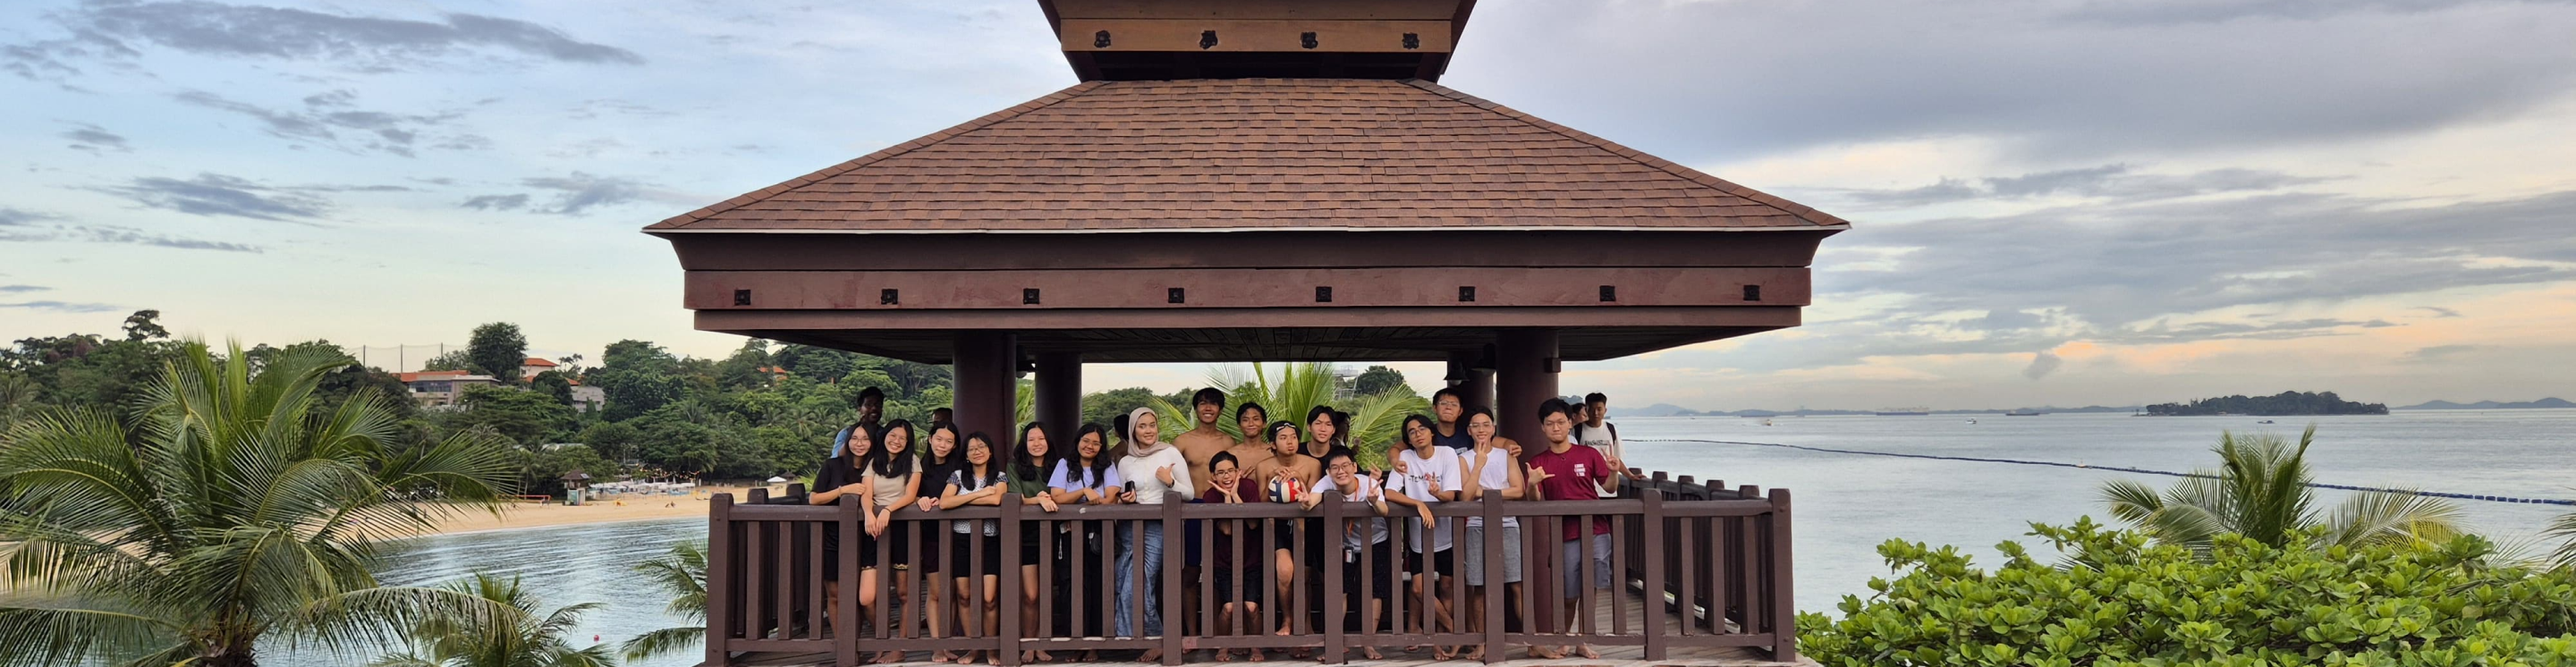
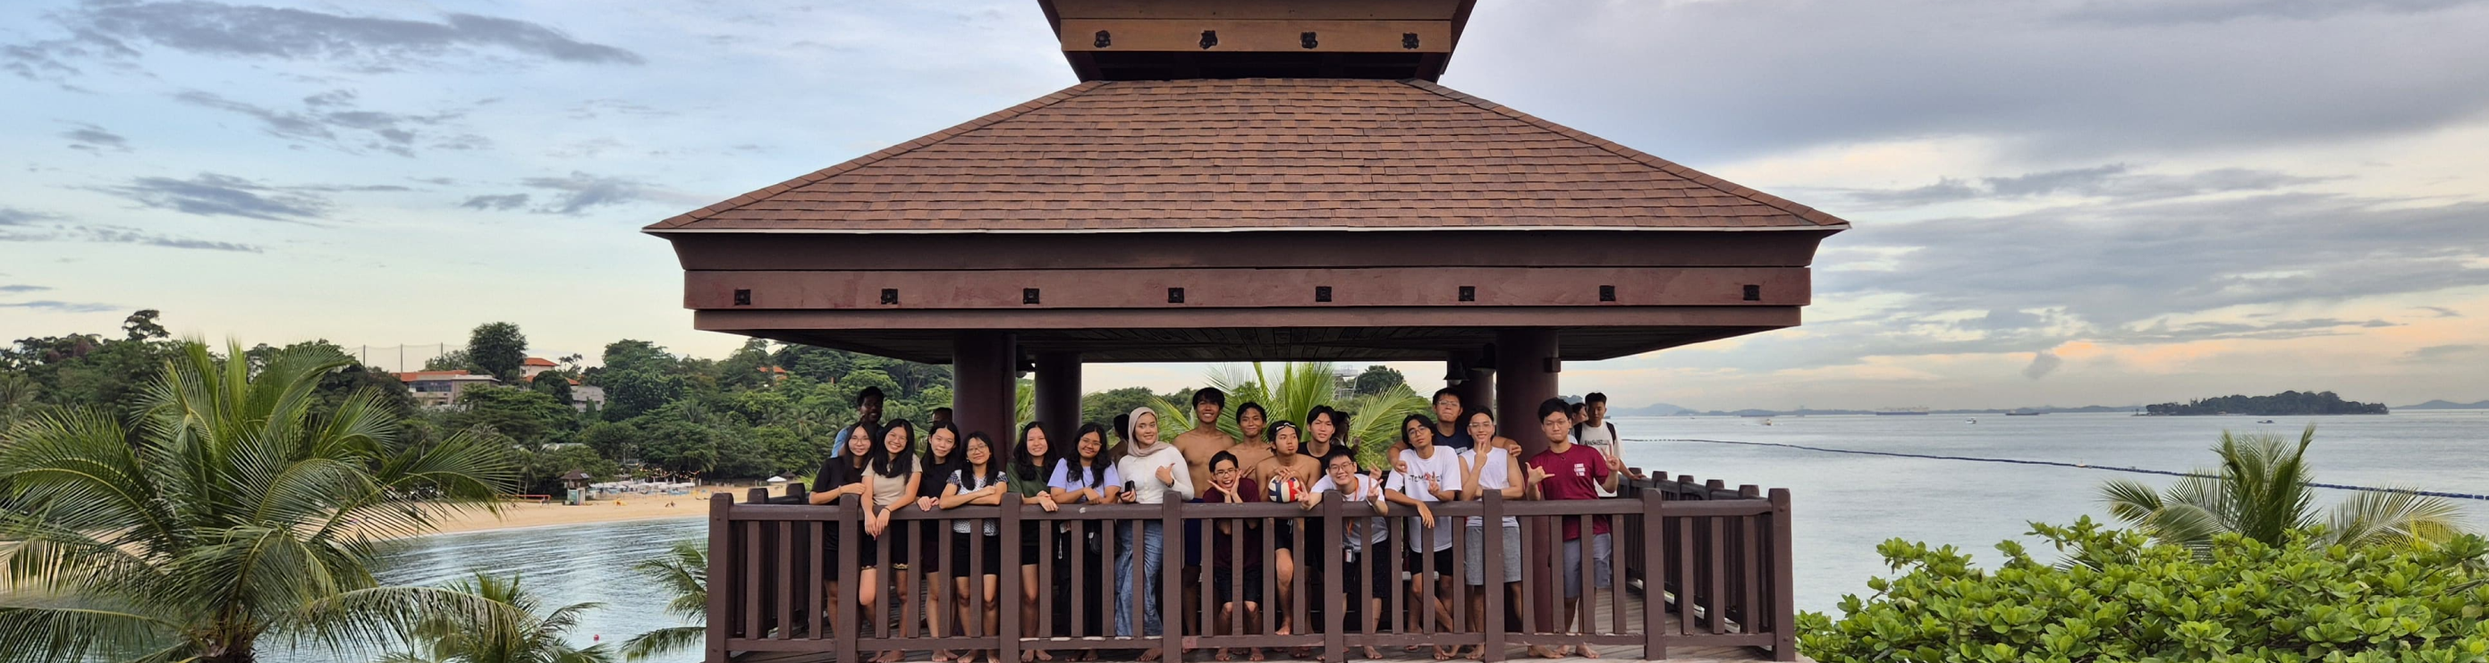
changed mobile hero style

diff --git a/app/page.tsx b/app/page.tsx
@@ -1,10 +1,14 @@
 // This is the home page and should be done by Team Rafa
 // Todo: Mostly this page is static can just follow the design from the figma
 
+'use client';
+
+import { useMediaQuery } from "@react-hook/media-query";
 import Image from "next/image";
+import { BlurFade } from "./components/ui/blur-fade";
 
 const aboutUsText =
-  "Perhimpunan Indonesia at NUS (PINUS) is a student organization dedicated to fostering a strong sense of community among Indonesian students at the National University of Singapore (NUS). Through a variety of social, cultural, and educational events, we aim to preserve and promote Indonesian culture, while also helping members adapt to life in Singapore. PINUS serves as a platform for students to develop their talents, strengthen leadership skills, and build lifelong friendships with fellow Indonesians and the wider NUS community";
+  "Perhimpunan Indonesia at NUS (PINUS) is a student organization dedicated to fostering a strong sense of community among Indonesian students at the National University of Singapore (NUS). Through a variety of social, cultural, and educational events, we aim to preserve and promote Indonesian culture, while also helping members adapt to life in Singapore. PINUS serves as a platform for students to develop their talents, strengthen leadership skills, and build lifelong friendships with fellow Indonesians and the wider NUS community.";
 const visionText =
   "To become an organization that aims to foster a sense of family and the spirit of mutual cooperation, as well as to provide a platform for Indonesian students at NUS to develop their potential, so they can contribute to both Indonesia and Singapore.";
 const missionsPoints = [
@@ -17,149 +21,179 @@ const missionsPoints = [
 ];
 
 export default function Home() {
+  const  match = useMediaQuery('only screen and (max-width: 600px)');
+  
   return (
-    <div
-      style={{
-        backgroundImage:
-          "linear-gradient(to bottom right, #fe5957 10%, rgba(255, 255, 255, 0) 40%)",
-        backgroundSize: "cover",
-      }}
-    >
+    <BlurFade delay={0.04 * 1.5} inView>
       <div
         style={{
           backgroundImage:
-            "linear-gradient(-100deg, #f7dc81 10%, rgba(255, 255, 255, 0) 40%)",
+            "linear-gradient(to bottom right, #fe5957 10%, rgba(255, 255, 255, 0) 40%)",
           backgroundSize: "cover",
         }}
       >
         <div
           style={{
             backgroundImage:
-              "linear-gradient(45deg, #a3a6c5 10%, rgba(255, 255, 255, 0) 40%)",
+              "linear-gradient(-100deg, #f7dc81 10%, rgba(255, 255, 255, 0) 40%)",
             backgroundSize: "cover",
           }}
         >
-          <div>
-            <div
-              style={{
-                position: "relative", // Position parent div relative for absolute positioning of gradient
-                width: "100%",
-                height: "auto",
-              }}
-            >
-              {/* Gradient overlay div */}
+          <div
+            style={{
+              backgroundImage:
+                "linear-gradient(45deg, #a3a6c5 10%, rgba(255, 255, 255, 0) 40%)",
+              backgroundSize: "cover",
+            }}
+          >
+            <div>
               <div
                 style={{
-                  position: "absolute", // Position gradient over the image
-                  top: 0,
-                  left: 0,
-                  right: 0,
-                  bottom: 0,
-                  backgroundImage:
-                    "linear-gradient(to bottom, white 5%, rgba(255, 255, 255, 0) 90%)",
-                  zIndex: 1, // Make sure the gradient stays above the image
+                  position: "relative", // Position parent div relative for absolute positioning of gradient
+                  width: "100%",
+                  height: "auto",
                 }}
-              ></div>
-
-              {/* Image div with background */}
-              <div style={{ position: "relative", zIndex: 0 }}>
-                <Image
-                  alt=""
-                  src="/cover.png"
-                  width={2880}
-                  height={746}
-                  style={{ width: "100%", height: "auto" }}
-                />
-              </div>
-            </div>
-            <div className="flex flex-col max-w-screen-lg mx-auto pt-14 pb-40 px-10 w-full items-center justify-center gap-20">
-              {/* Cover Image */}
-
-              {/* About Us */}
-              <div className="flex flex-col pt-20 items-center gap-5">
-                <div
-                  className="text-5xl font-bold"
-                  style={{ color: "#222E89" }}
-                >
-                  About Us
-                </div>
-                <p
-                  className="font-bold text-lg text-justify"
-                  style={{ color: "#222E89" }}
-                >
-                  {aboutUsText}
-                </p>
-              </div>
-
-              {/* Vision */}
-              <div className="flex flex-col gap-5">
-                <div
-                  className="text-5xl font-bold"
-                  style={{ color: "#8A1010" }}
-                >
-                  Vision
-                </div>
-                <p className="font-bold text-lg" style={{ color: "#832626" }}>
-                  {visionText}
-                </p>
-              </div>
-
-              <div className="flex flex-col gap-5">
-                <div
-                  className="text-5xl font-bold"
-                  style={{ color: "#AC8228" }}
-                >
-                  Mission
-                </div>
-                {missionsPoints.map((text, idx) => (
-                  <p
-                    key={idx}
-                    className="font-bold text-lg"
-                    style={{ color: "#8B6C19" }}
-                  >
-                    {text}
-                  </p>
-                ))}
-              </div>
-
-              <div
-                className="text-5xl mt-10 font-bold"
-                style={{ color: "#727272" }}
               >
-                Our Ad-Hoc Organisations
-              </div>
-              <div className="flex flex-col items-centre gap-8">
-                <Image alt="" src="/image.png" width={1778} height={912} />
-                <div className="flex flex-col items-center gap-1">
-                  <div
-                    className="text-4xl font-bold"
-                    style={{ color: "#929292" }}
-                  >
-                    NUANSA
-                  </div>
-                  <div
-                    className="text-4xl font-bold italic"
-                    style={{ color: "#929292" }}
-                  >
-                    Cultural Productions
-                  </div>
+                {/* Gradient overlay div */}
+                <div
+                  style={{
+                    position: "absolute", // Position gradient over the image
+                    top: 0,
+                    left: 0,
+                    right: 0,
+                    bottom: 0,
+                    backgroundImage: match
+                      ? ""
+                      : "linear-gradient(to bottom, white 3%, rgba(255, 255, 255, 0) 90%)",
+                    zIndex: 1, // Make sure the gradient stays above the image
+                  }}
+                ></div>
+                {/* Image div with background */}
+                <div style={{ position: "relative", zIndex: 0 }}>
+                  <Image
+                    alt=""
+                    src={match ? "/cover_mobile.png" : "/cover(2).png"}
+                    width={2880}
+                    height={match ? 1200 : 746}
+                    style={{
+                      width: "100%",
+                      height: match ? "calc(100vh - 64px)" : "350px",
+                      objectFit: "cover",
+                    }}
+                  />
+                </div>
+
+                <div
+                  className="italic"
+                  style={{
+                    display: match ? 'unset' : 'none',
+                    position: "absolute", 
+                    top: "50%", 
+                    left: "50%", 
+                    transform: "translate(-50%, -50%)", 
+                    zIndex: 2,
+                    color: "white",
+                    fontSize: "2.25rem",
+                    fontWeight: "bold", 
+                    textShadow: "2px 2px 4px rgba(0, 0, 0, 0.5)", 
+                    textAlign: "center", 
+                  }}
+                >
+                  Indonesia
                 </div>
               </div>
+              <div className="flex flex-col max-w-screen-lg mx-auto pt-14 pb-40 px-10 w-full items-center justify-center gap-20">
+                {/* Cover Image */}
 
-              <div className="flex flex-col items-centre gap-8">
-                <Image alt="" src="/image.png" width={1778} height={912} />
-                <div className="flex flex-col items-center gap-1">
+                {/* About Us */}
+                <div className="flex flex-col pt-20 items-center gap-5">
                   <div
-                    className="text-4xl font-bold"
-                    style={{ color: "#929292" }}
+                    className="text-5xl font-bold"
+                    style={{ color: "#222E89" }}
                   >
-                    Misi Kami Peduli
+                    About Us
                   </div>
-                  <div
-                    className="text-4xl font-bold italic"
-                    style={{ color: "#929292" }}
+                  <p
+                    className="font-bold text-lg text-justify"
+                    style={{ color: "#222E89" }}
                   >
-                    Volunteering Initiative
+                    {aboutUsText}
+                  </p>
+                </div>
+
+                {/* Vision */}
+                <div className="flex flex-col gap-5">
+                  <div
+                    className="text-5xl font-bold"
+                    style={{ color: "#8A1010" }}
+                  >
+                    Vision
+                  </div>
+                  <p
+                    className="font-bold text-lg text-justify"
+                    style={{ color: "#832626" }}
+                  >
+                    {visionText}
+                  </p>
+                </div>
+
+                <div className="flex flex-col gap-5">
+                  <div
+                    className="text-5xl font-bold"
+                    style={{ color: "#AC8228" }}
+                  >
+                    Mission
+                  </div>
+                  {missionsPoints.map((text, idx) => (
+                    <p
+                      key={idx}
+                      className="font-bold text-lg text-justify"
+                      style={{ color: "#8B6C19" }}
+                    >
+                      {text}
+                    </p>
+                  ))}
+                </div>
+
+                <div
+                  className="text-5xl mt-10 font-bold"
+                  style={{ color: "#727272" }}
+                >
+                  Our Ad-Hoc Organisations
+                </div>
+                <div className="flex flex-col items-centre gap-8">
+                  <Image alt="" src="/image.png" width={1778} height={912} />
+                  <div className="flex flex-col items-center gap-1">
+                    <div
+                      className="text-4xl font-bold"
+                      style={{ color: "#929292" }}
+                    >
+                      NUANSA
+                    </div>
+                    <div
+                      className="text-4xl font-bold italic"
+                      style={{ color: "#929292" }}
+                    >
+                      Cultural Productions
+                    </div>
+                  </div>
+                </div>
+
+                <div className="flex flex-col items-centre gap-8">
+                  <Image alt="" src="/image.png" width={1778} height={912} />
+                  <div className="flex flex-col items-center gap-1">
+                    <div
+                      className="text-4xl font-bold"
+                      style={{ color: "#929292" }}
+                    >
+                      Misi Kami Peduli
+                    </div>
+                    <div
+                      className="text-4xl font-bold italic"
+                      style={{ color: "#929292" }}
+                    >
+                      Volunteering Initiative
+                    </div>
                   </div>
                 </div>
               </div>
@@ -167,6 +201,6 @@ export default function Home() {
           </div>
         </div>
       </div>
-    </div>
+    </BlurFade>
   );
 }
